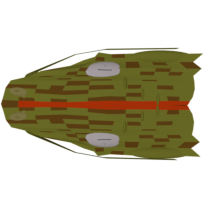
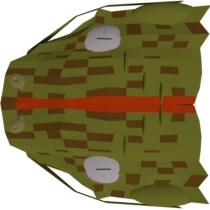
need to add rotation for head

diff --git a/SnakeGameSolution/SnakeGame/Snake.cpp b/SnakeGameSolution/SnakeGame/Snake.cpp
@@ -65,8 +65,8 @@ void Snake::Reset(float &XStartPosition, float &YStartPosition, float XScale, fl
 
 	// create snake's head, tail and body segments // TODO move this code to Reset method
 	Body.push_back(new Block("Head", 42, 42, XScale, YScale));
-	Body.push_back(new Block("Green", 42, 42, XScale, YScale));
-	Body.push_back(new Block("Green", 42, 42, XScale, YScale));
+	Body.push_back(new Block("Body", 42, 42, XScale, YScale));
+	Body.push_back(new Block("Body", 42, 42, XScale, YScale));
 	// snake LIVE STATUS in the beginning of the game
 	ESnakeState CurrentState = ESnakeState::Alive;
 	// snake move;
@@ -85,7 +85,7 @@ void Snake::ChangeSize(int32 AdditionToCurrentSize)
 {
 	for (int32 NewSegments = 0; NewSegments < AdditionToCurrentSize; NewSegments++)
 	{// add new segment with head segment scale
-		Body.push_back(new Block("Green",\
+		Body.push_back(new Block("Body",\
 			Body[1]->MainSprite.getPosition().x,\
 			Body[1]->MainSprite.getPosition().y,\
 			Body[1]->MainSprite.getScale().x, Body[1]->MainSprite.getScale().y));

diff --git a/SnakeGameSolution/SnakeGame/Block.h b/SnakeGameSolution/SnakeGame/Block.h
@@ -40,7 +40,8 @@ private:
 		{ "GameOver", "../../img/OVER.png" },
 		{ "Pause", "../../img/PAUSE.png" },
 		{ "SolarBackground", "../../img/SOLAR.jpeg"},
-		{ "Head", "../../img/SNAKE.png"}
+		{ "Head", "../../img/SNAKE.png"},
+		{ "Body", "../../img/SBODY.png" }
 	};
 };
 
